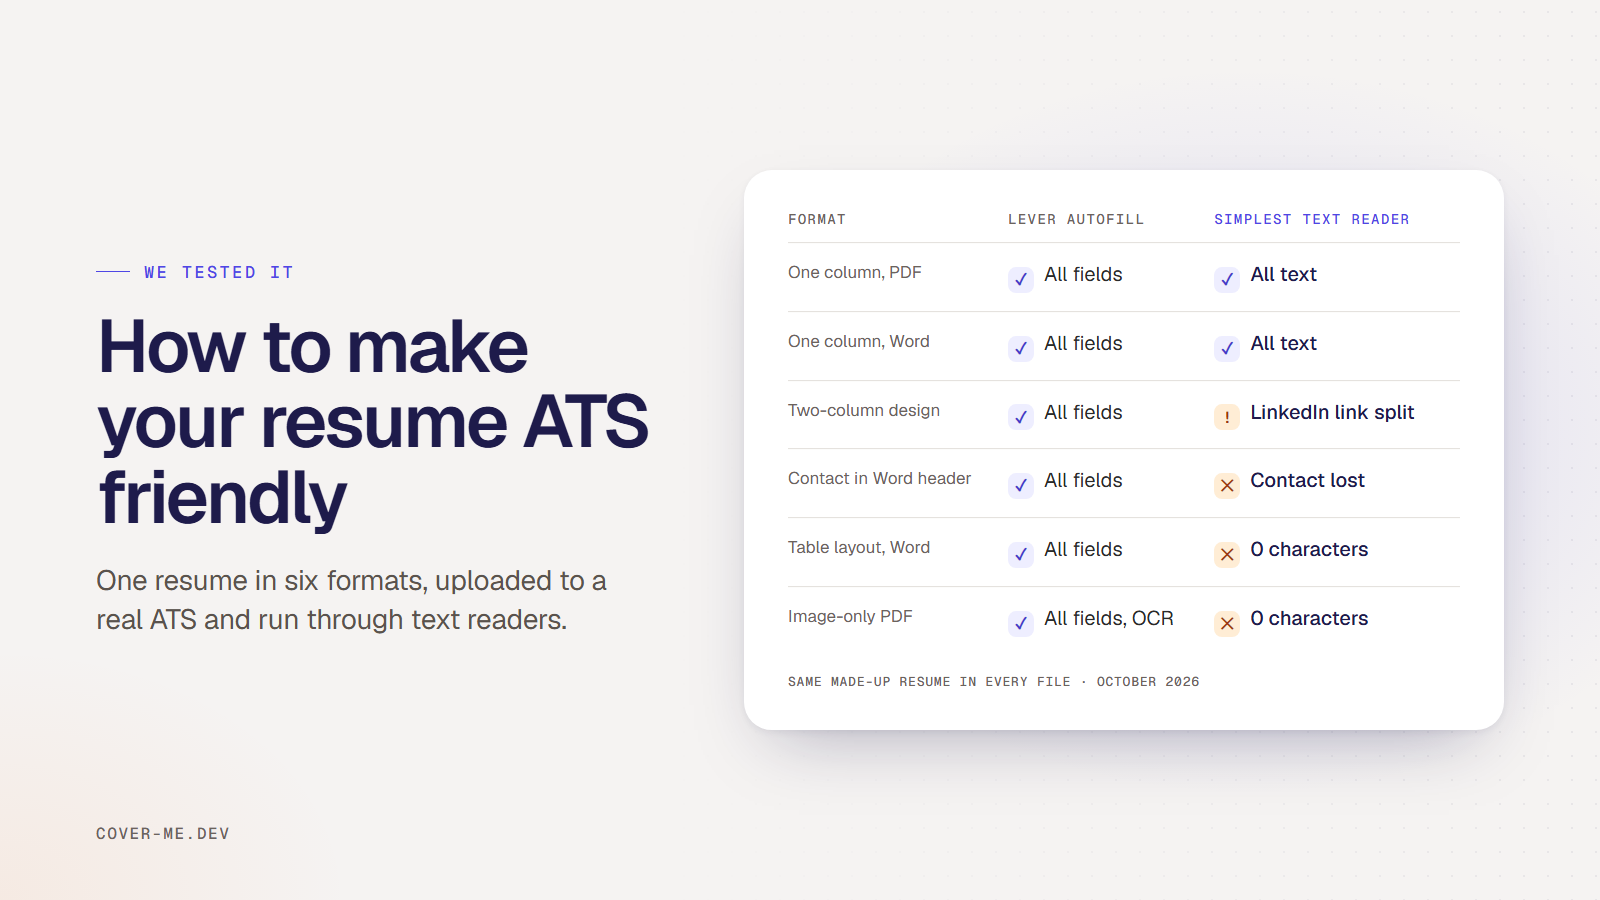
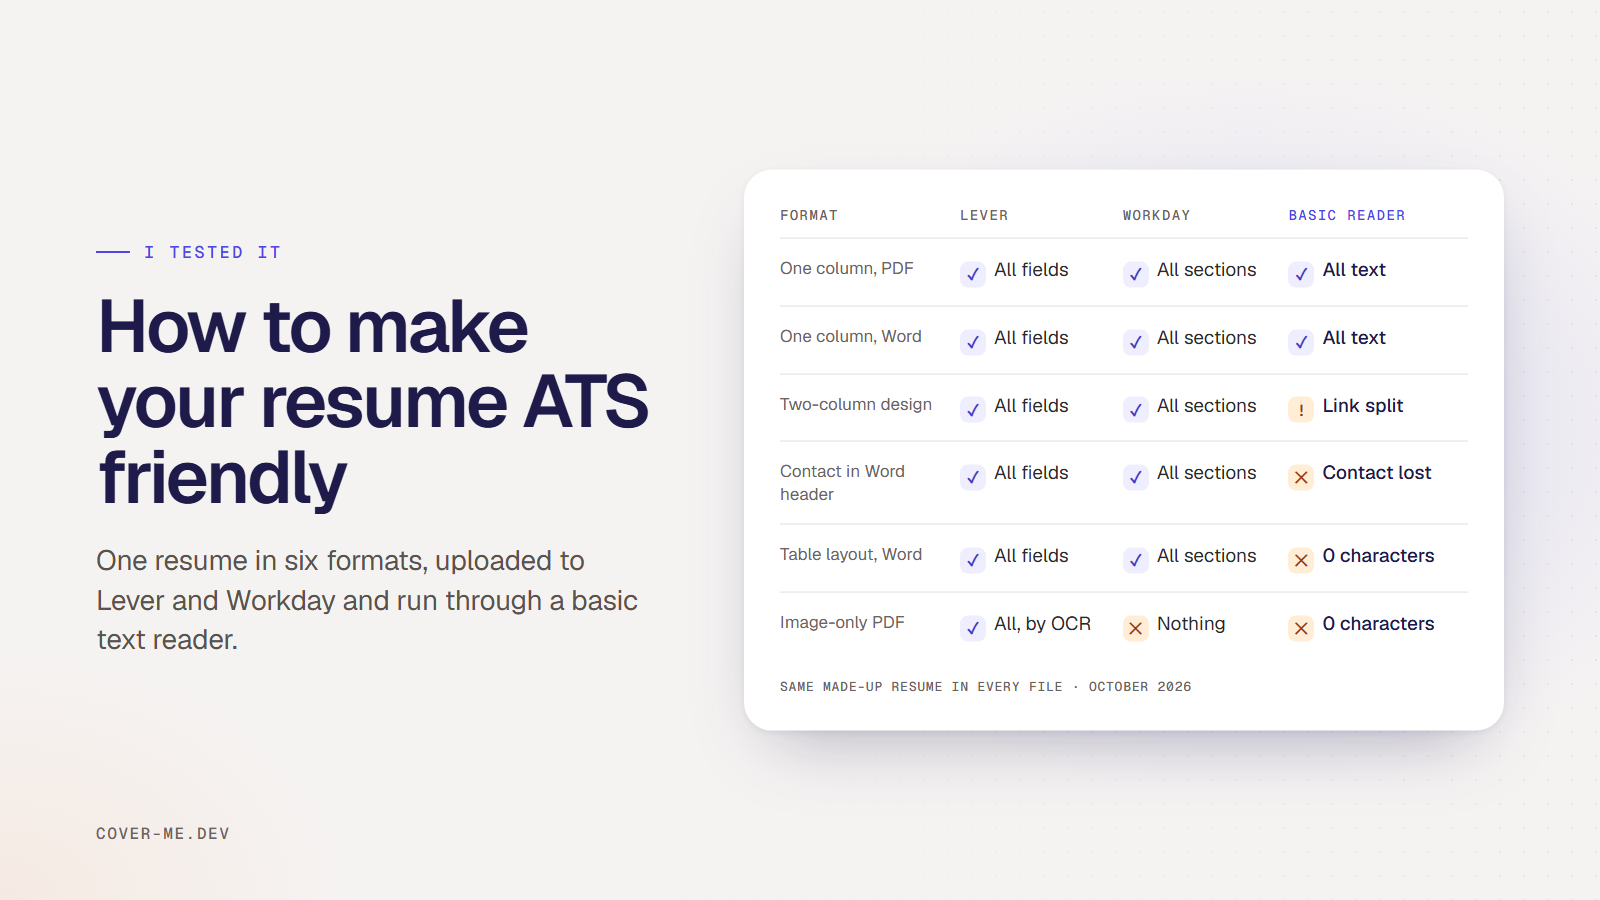
Add Workday results to the ATS format guide
Uploaded the six test resumes to Workday's Autofill with Resume on
NVIDIA's careers site, one fresh application each, never submitted.
Workday read every text format and nothing from the image-only PDF.

diff --git a/web/app/guides/ats-friendly-resume-format/page.tsx b/web/app/guides/ats-friendly-resume-format/page.tsx
@@ -8,25 +8,25 @@ const BASE = process.env.NEXT_PUBLIC_SITE_URL ?? 'https://www.cover-me.dev'
 const guide = getGuide('ats-friendly-resume-format')
 const HERO_IMAGE = '/guides/ats-friendly-resume-format.png'
 const HERO_ALT =
-  "Results table for one made-up resume saved in six formats. Lever's resume autofill filled every field for all six: one column PDF, one column Word, a two-column design, contact details in the Word header, a Word table layout, and an image-only PDF, which it read by OCR. The simplest text reader got all the text from the one-column files, split the LinkedIn link in the two-column design, lost the contact details in the Word header, and got 0 characters from the table layout and the image-only PDF."
+  "Results table for one made-up resume saved in six formats: one column PDF, one column Word, a two-column design, contact details in the Word header, a Word table layout, and an image-only PDF. Lever's resume autofill filled every field for all six, reading the image-only PDF by OCR. Workday's autofill filled every section for the first five and nothing for the image-only PDF. The basic text reader got all the text from the one-column files, split the LinkedIn link in the two-column design, lost the contact details in the Word header, and got 0 characters from the table layout and the image-only PDF."
 const FILES = '/guides/ats-friendly-resume-format/files'
 
 export const metadata: Metadata = {
   title: 'ATS-Friendly Resume Format: 6 Layouts Tested',
-  description: 'I uploaded one resume in six formats to a real ATS and ran it through text extractors. What broke, what held up, and a checklist for an ATS-friendly resume.',
+  description: 'I uploaded one resume in six formats to Lever and Workday and ran it through text extractors. What broke, what held up, and a checklist for an ATS-friendly resume.',
   alternates: { canonical: `${BASE}/guides/${guide.slug}` },
   openGraph: {
     title: 'How to make your resume ATS friendly: 6 formats tested | Cover Me',
-    description: 'One resume, six formats, a real ATS and three text extractors. Tables, Word headers and image PDFs lost text. Plain one-column files kept all of it.',
+    description: 'One resume, six formats, two real ATSs and three text extractors. Workday read nothing from an image PDF, and simple readers lost Word headers and tables. Plain one-column files kept everything.',
     url: `${BASE}/guides/${guide.slug}`,
     siteName: 'Cover Me',
     type: 'article',
-    images: [{ url: `${BASE}${HERO_IMAGE}`, width: 1600, height: 900, alt: 'Results of uploading one resume in six formats to Lever and to a basic text reader' }],
+    images: [{ url: `${BASE}${HERO_IMAGE}`, width: 1600, height: 900, alt: 'Results of uploading one resume in six formats to Lever, Workday and a basic text reader' }],
   },
   twitter: {
     card: 'summary_large_image',
     title: 'How to make your resume ATS friendly: 6 formats tested | Cover Me',
-    description: 'One resume, six formats, a real ATS and three text extractors. Tables, Word headers and image PDFs lost text. Plain one-column files kept all of it.',
+    description: 'One resume, six formats, two real ATSs and three text extractors. Workday read nothing from an image PDF, and simple readers lost Word headers and tables. Plain one-column files kept everything.',
     images: [`${BASE}${HERO_IMAGE}`],
   },
 }
@@ -40,7 +40,7 @@ const faqJsonLd = {
       name: 'Is a PDF or a Word document better for an ATS?',
       acceptedAnswer: {
         '@type': 'Answer',
-        text: "Both worked in my test. Lever filled every field from the one-column PDF and the one-column Word file, and Apache Tika read all their text. What matters more is what's inside the file: real text in a single column, with your contact details in the body. Send whichever format the posting asks for.",
+        text: "Both worked in my test. Lever and Workday filled in the same fields from the one-column PDF and the one-column Word file, and Apache Tika read all their text. What matters more is what's inside the file: real text in a single column, with your contact details in the body. Send whichever format the posting asks for.",
       },
     },
     {
@@ -48,7 +48,7 @@ const faqJsonLd = {
       name: 'Will a two-column resume get rejected by an ATS?',
       acceptedAnswer: {
         '@type': 'Answer',
-        text: "Not in my test. Lever filled every contact field from my two-column design, and the text extractors kept all of the text. The narrow sidebar did cause damage, though. The LinkedIn link wrapped onto two lines and came out split, and pdftotext read the spaced-out headings as \"C O N TA C T\". A one-column layout avoids both problems.",
+        text: "Not in my test. Lever filled every contact field from my two-column design, Workday pulled the same jobs, education and skills as it did from the plain file, and the text extractors kept all of the text. The narrow sidebar did cause damage in the extractors, though. The LinkedIn link wrapped onto two lines and came out split, and pdftotext read the spaced-out headings as \"C O N TA C T\". A one-column layout avoids both problems.",
       },
     },
     {
@@ -64,7 +64,7 @@ const faqJsonLd = {
       name: 'How can I check if my resume is ATS friendly?',
       acceptedAnswer: {
         '@type': 'Answer',
-        text: "Open your PDF, select all the text, and paste it into a plain text editor such as Notepad. If your name, contact details, job titles and skills come out complete and in order, a parser can read them. If nothing highlights, the PDF is an image. You can also upload your resume to a job form with resume autofill, like the ones on Lever, and check what fills in, then leave without submitting.",
+        text: "Open your PDF, select all the text, and paste it into a plain text editor such as Notepad. If your name, contact details, job titles and skills come out complete and in order, a parser can read them. If nothing highlights, the PDF is an image. You can also upload your resume to a job form with resume autofill, such as Lever or Workday, and check what fills in, then leave without submitting.",
       },
     },
   ],
@@ -72,22 +72,23 @@ const faqJsonLd = {
 
 // Results from October 31, 2026. "Simplest reader" is pdftotext for PDFs and
 // a body-only Word reader (python-docx paragraphs) for DOCX.
-const RESULTS: { format: string; file: string; lever: string; tika: string; simple: string }[] = [
-  { format: 'One column, PDF', file: 'single-column.pdf', lever: 'All 6 fields', tika: 'All text', simple: 'All text' },
-  { format: 'One column, Word', file: 'single-column.docx', lever: 'All 6 fields', tika: 'All text', simple: 'All text' },
-  { format: 'Two-column design, PDF', file: 'two-column.pdf', lever: 'All 6 fields', tika: 'LinkedIn link split', simple: 'LinkedIn link split, spaced headings garbled' },
-  { format: 'Contact in Word header', file: 'header-contact.docx', lever: 'All 6 fields', tika: 'All text', simple: 'Name, email, phone and LinkedIn missing' },
-  { format: 'Table layout, Word', file: 'table-layout.docx', lever: 'All 6 fields', tika: 'All text', simple: '0 characters' },
-  { format: 'Image-only PDF', file: 'image-only.pdf', lever: 'All 6 fields, read by OCR', tika: '0 characters', simple: '0 characters' },
+const RESULTS: { format: string; file: string; lever: string; workday: string; tika: string; simple: string }[] = [
+  { format: 'One column, PDF', file: 'single-column.pdf', lever: 'All 6 fields', workday: 'All sections', tika: 'All text', simple: 'All text' },
+  { format: 'One column, Word', file: 'single-column.docx', lever: 'All 6 fields', workday: 'All sections', tika: 'All text', simple: 'All text' },
+  { format: 'Two-column design, PDF', file: 'two-column.pdf', lever: 'All 6 fields', workday: 'All sections', tika: 'LinkedIn link split', simple: 'LinkedIn link split, spaced headings garbled' },
+  { format: 'Contact in Word header', file: 'header-contact.docx', lever: 'All 6 fields', workday: 'All sections', tika: 'All text', simple: 'Name, email, phone and LinkedIn missing' },
+  { format: 'Table layout, Word', file: 'table-layout.docx', lever: 'All 6 fields', workday: 'All sections', tika: 'All text', simple: '0 characters' },
+  { format: 'Image-only PDF', file: 'image-only.pdf', lever: 'All 6 fields, read by OCR', workday: 'Nothing', tika: '0 characters', simple: '0 characters' },
 ]
 
 const CHECKLIST: { title: string; body: string }[] = [
   { title: 'Use one column', body: 'Put everything in a single column that reads top to bottom. Sidebars squeeze long lines like links and email addresses until they wrap and split.' },
-  { title: 'Keep the text real', body: "Export from Word or Google Docs, not as a picture from a design app or a scan. If you can't highlight a word in your PDF, a parser without OCR can't read it either." },
+  { title: 'Keep the text real', body: "Export from Word or Google Docs, not as a picture from a design app or a scan. Workday filled in nothing from my image-only PDF. If you can't highlight a word in your PDF, a parser without OCR can't read it either." },
   { title: 'Put your name and contact details in the body', body: "Type them as the first lines of the page, not in Word's header or footer area." },
   { title: "Don't build the layout with tables or text boxes", body: 'Use plain paragraphs, bullets and tab stops. The table layout gave the basic Word reader nothing at all.' },
   { title: 'Use standard section headings', body: 'Summary, Experience, Education and Skills. Skip letter-spaced or decorative headings, which can come out as "E D U C AT I O N".' },
   { title: 'Send a PDF or a Word file', body: 'Both worked in this test. Follow the posting if it asks for one.' },
+  { title: 'Check what the form filled in', body: 'Workday left a company name blank and put a job title in the address line, even from the plain file. Fix those fields by hand before you submit.' },
   { title: 'Then match the posting', body: "A clean format only gets your words read. Recruiters search those words for the posting's skills, so use its wording where it's true for you." },
 ]
 
@@ -128,7 +129,7 @@ export default function Page() {
 
       <article className="space-y-5 text-[15.5px] text-muted-foreground leading-[1.85]">
         <p className="text-[17px] text-foreground font-medium leading-[1.7]">
-          An ATS-friendly resume is one a parser can read completely and in order. That means one column of real text, your name and contact details in the body of the page, standard section headings, and a PDF or Word file. I saved one resume in six formats and tested each one. Lever&rsquo;s parser read all six, even an image-only PDF. Simpler text readers lost the contact details in a Word header and got nothing at all from a table layout or an image. You can&rsquo;t tell which parser an employer runs, so the plain format is the safe one.
+          An ATS-friendly resume is one a parser can read completely and in order. That means one column of real text, your name and contact details in the body of the page, standard section headings, and a PDF or Word file. I saved one resume in six formats and uploaded each one to two real applicant tracking systems, Lever and Workday. Both read the two-column design, the Word header and the table layout. The image-only PDF is where they differed. Lever read it with OCR, and Workday filled in nothing. Simpler text readers lost the contact details in a Word header and got nothing at all from a table layout. You can&rsquo;t tell which parser an employer runs, so the plain format is the safe one.
         </p>
         <p>
           I build Cover Me, a Chrome extension that tailors resumes to job postings. I ran this test because most ATS formatting advice is repeated from article to article without anyone checking it.
@@ -162,23 +163,24 @@ export default function Page() {
         <p>Then I checked each file two ways:</p>
         <ul className="list-disc pl-6 space-y-2">
           <li>
-            <strong className="text-foreground">A real ATS.</strong> I uploaded each file to the resume autofill on a live Lever application form, on the careers page of Employ, the company that owns Lever, and noted what it filled in. I never submitted an application.
+            <strong className="text-foreground">Two real ATSs.</strong> I uploaded each file to the resume autofill on a live Lever application form, on the careers page of Employ, the company that owns Lever. Then I signed in to NVIDIA&rsquo;s Workday careers site and started a new application for each file with &ldquo;Autofill with Resume&rdquo;. I noted what each one filled in and never submitted an application.
           </li>
           <li>
             <strong className="text-foreground">Text extractors.</strong> I ran each file through Apache Tika, an open-source library that pulls text out of documents, and through the simplest readers I could find: pdftotext for PDFs and a Word reader that only reads body paragraphs. They show what a less capable parser gets from the same file.
           </li>
         </ul>
         <p>
-          I used Lever because its form shows you what the parser pulled out before you apply. Greenhouse only parses the resume after you submit, or after you sign in to MyGreenhouse, and Workday needs an account for each employer.
+          I picked these two because both show you what the parser pulled out before you apply. Lever fills in your contact details and current company. Workday goes further and fills in your work history, education and skills. Greenhouse only parses the resume after you submit, or after you sign in to MyGreenhouse.
         </p>
 
-        <h2 className="text-[22px] text-foreground !mt-10">Which resume formats did an ATS read?</h2>
+        <h2 className="text-[22px] text-foreground !mt-10">Which resume formats can an ATS read?</h2>
         <div className="overflow-x-auto !mt-6">
           <table className="w-full text-[13.5px] border border-border rounded-[8px] overflow-hidden" style={{ borderCollapse: 'collapse' }}>
             <thead>
               <tr className="bg-elevated">
                 <th className="text-left px-4 py-3 font-bold text-muted-foreground border-b border-border">Format</th>
                 <th className="text-left px-4 py-3 font-bold text-muted-foreground border-b border-border">Lever autofill</th>
+                <th className="text-left px-4 py-3 font-bold text-muted-foreground border-b border-border">Workday autofill</th>
                 <th className="text-left px-4 py-3 font-bold text-muted-foreground border-b border-border">Apache Tika</th>
                 <th className="text-left px-4 py-3 font-bold text-muted-foreground border-b border-border">Simplest reader</th>
               </tr>
@@ -190,6 +192,7 @@ export default function Page() {
                     <a href={`${FILES}/${row.file}`} className={LINK}>{row.format}</a>
                   </td>
                   <td className="px-4 py-3 text-muted-foreground border-b border-border">{row.lever}</td>
+                  <td className="px-4 py-3 text-muted-foreground border-b border-border">{row.workday}</td>
                   <td className="px-4 py-3 text-muted-foreground border-b border-border">{row.tika}</td>
                   <td className="px-4 py-3 text-muted-foreground border-b border-border">{row.simple}</td>
                 </tr>
@@ -198,10 +201,27 @@ export default function Page() {
           </table>
         </div>
         <p className="text-[13px]">
-          Tested October 31, 2026. Lever&rsquo;s 6 fields are full name, email, phone, location, current company and LinkedIn URL. Click a format to download the test file.
+          Tested October 31, 2026. Lever&rsquo;s 6 fields are full name, email, phone, location, current company and LinkedIn URL. Workday&rsquo;s sections are name, address, phone, three jobs with titles, dates and descriptions, school, field of study and skills. Workday fills in the email from your account, so it can&rsquo;t show whether the email was read. Click a format to download the test file.
         </p>
         <p>
-          Lever got every field right from every file, including the image-only PDF. A file with no text in it can only be read with optical character recognition (OCR), so Lever runs OCR on uploads. That&rsquo;s good news if your resume is a scan. But Lever&rsquo;s autofill only shows contact details and your current employer, so the test can&rsquo;t show how well it indexed the rest of the page for keyword search.
+          Both ATSs read the two-column design, the Word header and the table layout as well as the plain files. Workday pulled the same three jobs, the same school and the same 15 suggested skills from all five text files. The only difference in the table version was that the &ldquo;&bull;&rdquo; bullet characters stayed in the job descriptions.
+        </p>
+        <p>
+          The image-only PDF is where they split. Lever got every field right, and a file with no text in it can only be read with optical character recognition (OCR), so Lever runs OCR on uploads. Workday left every field blank. Of the six formats, the image was the only one that failed in a real ATS.
+        </p>
+        <figure className="!my-8">
+          <Image
+            src="/guides/ats-friendly-resume-format/workday-image-only.png"
+            alt="Workday's My Information step after two uploads, side by side. Left, after single-column.pdf, First Name is Alex, Last Name is Rivera, and Address Line 1 says Marketing Manager. Right, after image-only.pdf, all three fields are empty."
+            width={924}
+            height={543}
+            sizes="(max-width: 800px) 100vw, 760px"
+            className="w-full h-auto rounded-[12px] border border-border"
+          />
+          <figcaption className="text-[13px] mt-3">Workday after the plain PDF (left) and the image-only PDF (right). It read nothing from the image.</figcaption>
+        </figure>
+        <p>
+          Workday wasn&rsquo;t perfect on any file. Every time, it left the company blank on the first job, Fernwood Labs. It put the job title &ldquo;Marketing Manager&rdquo; into Address Line 1 for the plain PDF, the plain Word file and the table layout, and it never picked a degree. Those mistakes happened on the plain files too, so changing the format wouldn&rsquo;t have fixed them. Check what the form filled in before you submit.
         </p>
         <figure className="!my-8">
           <Image
@@ -217,16 +237,16 @@ export default function Page() {
 
         <h2 className="text-[22px] text-foreground !mt-10">Which resume formats lose text?</h2>
         <p>
-          <strong className="text-foreground">Images of text.</strong> The image-only PDF gave Tika and pdftotext 0 characters. This happens when a resume is exported as a picture from a design app, or scanned. Lever coped because it runs OCR. A parser that doesn&rsquo;t would see a blank page.
+          <strong className="text-foreground">Images of text.</strong> The image-only PDF gave Tika and pdftotext 0 characters, and Workday filled in nothing. This happens when a resume is exported as a picture from a design app, or scanned. Lever coped because it runs OCR. Workday saw a blank page.
         </p>
         <p>
-          <strong className="text-foreground">Contact details in the Word header.</strong> Tika read the header. The body-only Word reader started at &ldquo;Summary&rdquo;, so Alex&rsquo;s name, email, phone and LinkedIn were gone. Some resume templates put the name in the header to repeat it on every page.
+          <strong className="text-foreground">Contact details in the Word header.</strong> Lever, Workday and Tika all read the header. The body-only Word reader started at &ldquo;Summary&rdquo;, so Alex&rsquo;s name, email, phone and LinkedIn were gone. Some resume templates put the name in the header to repeat it on every page.
         </p>
         <p>
-          <strong className="text-foreground">Tables.</strong> The body-only reader got 0 characters from the table layout, because every word sat inside table cells. Tika read the cells in order.
+          <strong className="text-foreground">Tables.</strong> The body-only reader got 0 characters from the table layout, because every word sat inside table cells. Workday and Tika read the cells in order.
         </p>
         <p>
-          <strong className="text-foreground">Two columns.</strong> All the text came out, sidebar first and then the main column, which is a reasonable order. The narrow sidebar did damage two things. The LinkedIn link wrapped onto two lines and was read as two pieces, and pdftotext read the spaced-out headings as separate letters:
+          <strong className="text-foreground">Two columns.</strong> Lever and Workday handled it. In the text extractors, all the text came out, sidebar first and then the main column, which is a reasonable order. The narrow sidebar did damage two things. The LinkedIn link wrapped onto two lines and was read as two pieces, and pdftotext read the spaced-out headings as separate letters:
         </p>
         <pre className="text-[12.5px] leading-[1.6] bg-elevated border border-border rounded-[8px] p-4 overflow-x-auto text-foreground whitespace-pre-wrap">
 {`Alex Rivera

diff --git a/web/lib/guides.ts b/web/lib/guides.ts
@@ -58,7 +58,7 @@ export const GUIDES: Guide[] = [
   {
     slug: 'ats-friendly-resume-format',
     title: 'How to make your resume ATS friendly: I tested 6 formats',
-    description: 'One resume in six formats, uploaded to a real ATS and run through text extractors. Tables, Word headers and image PDFs lost text in simple parsers. Plain one-column files kept all of it.',
+    description: 'One resume in six formats, uploaded to Lever and Workday and run through text extractors. Workday read nothing from an image PDF, and simple parsers lost Word headers and tables. Plain one-column files kept everything.',
     date: '2026-10-31',
   },
 ]
